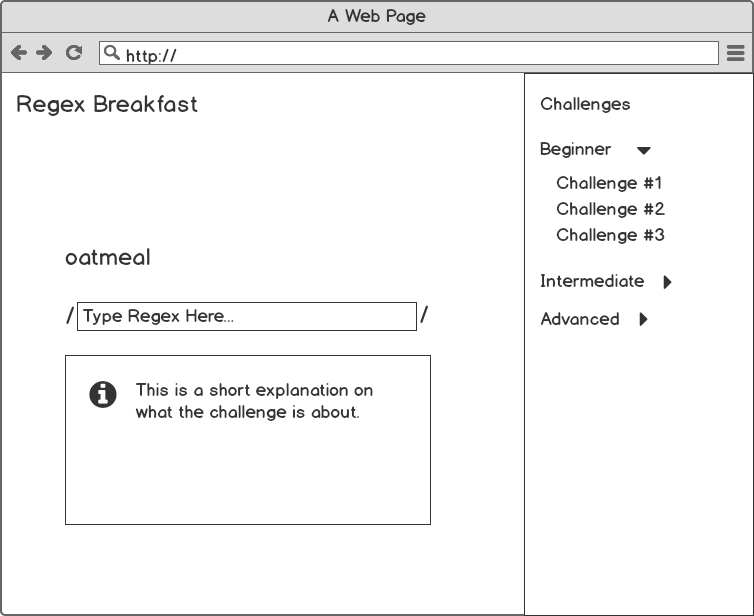
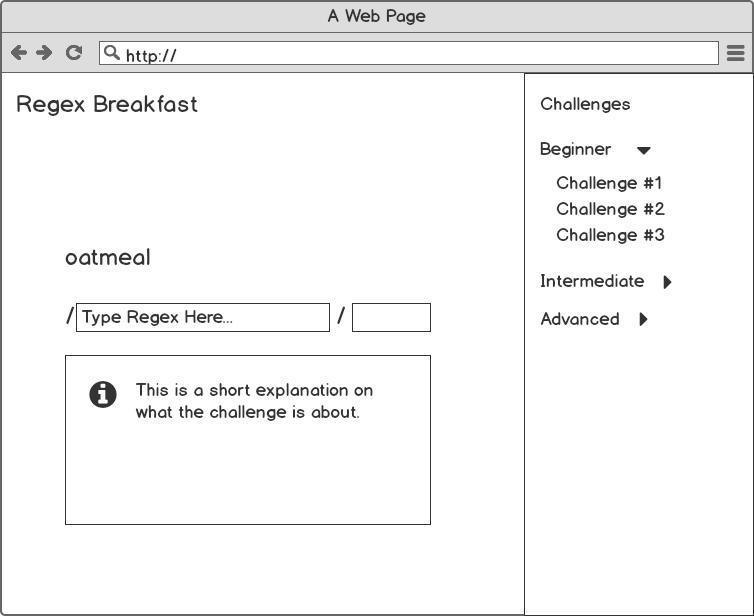
updated mockup and added some more challenges

diff --git a/src/data/challenges.js b/src/data/challenges.js
@@ -1,15 +1,27 @@
 export default [
   {
-    name: 'Plain Text',
+    name: 'Match Text',
     fullText: 'oatmeal',
     info: 'Type exact characters to match.'
   },
   {
+    name: 'Match Lowercase',
+    fullText: 'toast',
+    info: 'Use a capture group for lowercase letters: [a-z].'
+  },
+  {
+    name: 'Match Uppercase',
+    fullText: 'TOAST',
+    info: 'Use a capture group for uppercase letters: [A-Z].'
+  },
+  {
+    name: 'Match Mixed-cases',
+    fullText: 'Avocado',
+    info: 'Use a capture group for uppercase letters: [A-Za-z].'
+  },
+  {
     name: 'Phrases',
-    fullText: 'Avocado toast is awesome!',
-    info: `Try us a magic character like \`.\` (period).
-      That matches any character.
-      To match every character add a plus sign: \`.+\`
-    `
+    fullText: 'Avocado toast is awesome',
+    info: 'Match with spaces: [A-Z a-z].'
   }
 ]
